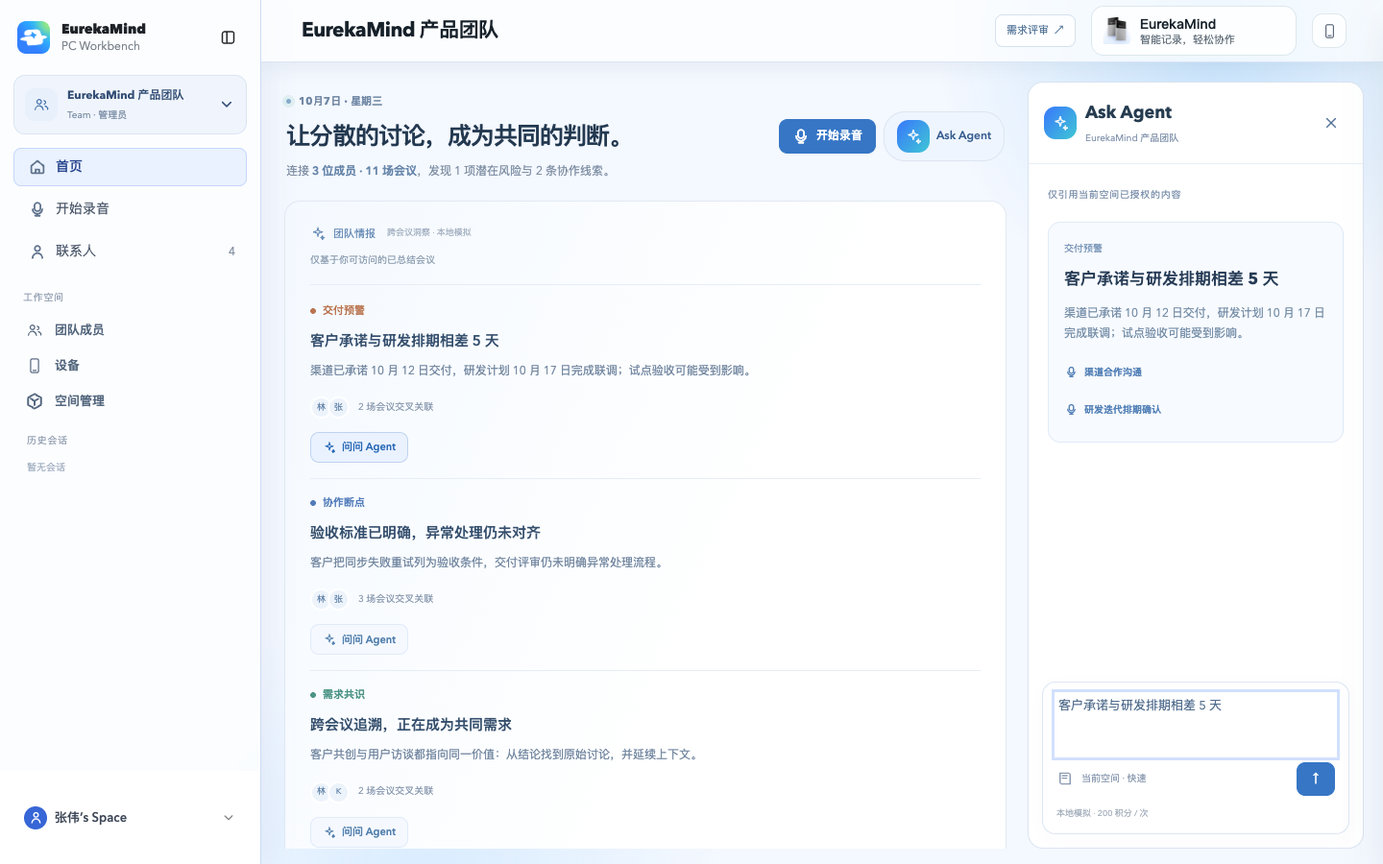
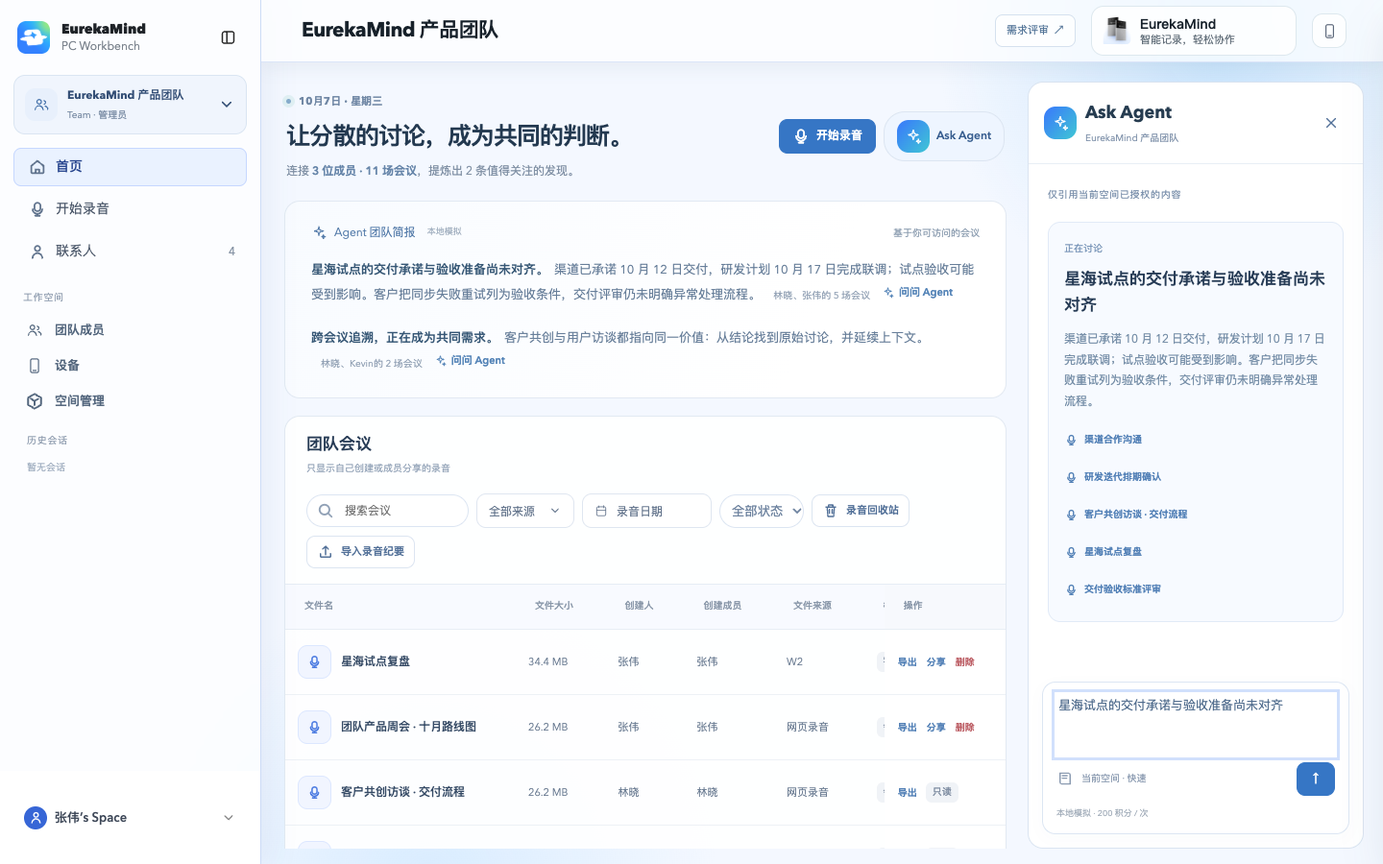
refine: present dynamic team findings as a flowing inline Agent brief

diff --git a/src/prototype/one-to-one-reference/assets/workspace-ui.js b/src/prototype/one-to-one-reference/assets/workspace-ui.js
@@ -84,11 +84,11 @@
   }
   function teamIntelligence(report){
     const items=report.items;
-    return `<section class="ws-meeting-intelligence ws-surface ws-team-intelligence" aria-label="团队情报"><header class="ws-intelligence-top"><div class="ws-intelligence-label">${icon('spark')} 团队情报 <span>跨会议洞察 · 本地模拟</span></div><span class="ws-insight-scope">仅基于你可访问的已总结会议</span></header>${items.length?`<div class="ws-insight-grid">${items.map(i=>`<article class="ws-insight-card ${i.kind}"><div class="ws-insight-category"><span>${i.label}</span></div><h3>${esc(i.title)}</h3><p>${esc(i.description)}</p><div class="ws-insight-people">${[...new Set(i.sources.map(e=>e.owner))].map(uid=>`<span class="ws-insight-avatar" title="${esc(userName(uid))}">${esc(userName(uid).slice(0,1))}</span>`).join('')}<span>${i.sources.length} 场会议交叉关联</span></div><footer>${btn('meeting-prompt',icon('spark')+'问问 Agent','ws-insight-ask',i.title,'aria-label="问问 Agent：'+esc(i.title)+'"')}</footer></article>`).join('')}</div>`:`<div class="ws-insight-empty">尚无可交叉验证的团队线索。成员分享相关会议后，可连接不同视角；暂无预警不代表不存在风险。</div>`}</section>`;
+    return `<section class="ws-meeting-intelligence ws-surface ws-team-intelligence ws-team-brief" aria-label="团队简报"><header class="ws-intelligence-top"><div class="ws-intelligence-label">${icon('spark')} Agent 团队简报 <span>本地模拟</span></div><span class="ws-insight-scope">基于你可访问的会议</span></header>${items.length?`<div class="ws-brief-narrative">${items.map(i=>`<article class="ws-brief-finding" data-insight-id="${esc(i.id)}"><p class="ws-brief-paragraph"><strong>${esc(i.title)}。</strong>${esc(i.description)} <span class="ws-brief-attribution"><span>${esc([...new Set(i.sources.map(e=>userName(e.owner)))].join('、'))}的 ${i.sources.length} 场会议</span>${btn('meeting-prompt',icon('spark')+'问问 Agent','ws-brief-ask',i.title,'aria-label="问问 Agent：'+esc(i.title)+'"')}</span></p></article>`).join('')}</div>`:`<div class="ws-insight-empty">暂时没有形成新的跨会议发现。相关讨论积累后，Agent 会在这里串联值得团队关注的信息。</div>`}</section>`;
   }
   function overview(){
     const report=M.insights(w(),actor),now=new Date(),dayLabel=now.toLocaleDateString('zh-CN',{month:'long',day:'numeric'})+' · '+now.toLocaleDateString('zh-CN',{weekday:'long'});
-    return `<header class="ws-page-head ws-team-home-head"><div><span class="today-workbench-eyebrow ws-home-date"><i></i><time>${esc(dayLabel)}</time></span><h1>让分散的讨论，成为共同的判断。</h1><p>连接 <b>${report.members} 位成员 · ${report.meetings} 场会议</b>${report.items.length?'，发现 '+report.items.filter(i=>i.kind==='risk').length+' 项潜在风险与 '+report.items.filter(i=>i.kind!=='risk').length+' 条协作线索。':'，等待更多跨成员的会议线索。'}</p></div><div class="ws-actions">${btn('record',icon('mic')+'开始录音','primary')+btn('agent',`<span class="ws-agent-mark">${icon('spark')}</span>Ask Agent`,'agent')}</div></header>`+
+    return `<header class="ws-page-head ws-team-home-head"><div><span class="today-workbench-eyebrow ws-home-date"><i></i><time>${esc(dayLabel)}</time></span><h1>让分散的讨论，成为共同的判断。</h1><p>连接 <b>${report.members} 位成员 · ${report.meetings} 场会议</b>${report.items.length?'，提炼出 '+report.items.length+' 条值得关注的发现。':'，等待更多跨成员的会议线索。'}</p></div><div class="ws-actions">${btn('record',icon('mic')+'开始录音','primary')+btn('agent',`<span class="ws-agent-mark">${icon('spark')}</span>Ask Agent`,'agent')}</div></header>`+
       (filter!=='trash'?teamIntelligence(report):'')+
       `<section class="ws-surface ws-recordings"><header class="ws-recording-head"><div><h2>${filter==='trash'?'录音回收站':'团队会议'}</h2><p>${filter==='trash'?'删除的录音可恢复，30 天后过期清理':'只显示自己创建或成员分享的录音'}</p></div><div class="ws-meeting-tools"><label class="ws-search">${icon('search')}<input id="ws-file-search" type="search" placeholder="搜索会议" aria-label="搜索团队会议" value="${esc(query)}"></label><div class="ws-filter-source"><select id="ws-meeting-source" aria-label="会议来源">${['all','网页录音','合并录音','M1','W1','W2','W-PEN','手动导入',...new Set(w().files.map(f=>f.source))].filter((x,i,a)=>a.indexOf(x)===i).map(v=>`<option value="${esc(v)}" ${sourceFilter===v?'selected':''}>${v==='all'?'全部来源':esc(v)}</option>`).join('')}</select></div><div class="ws-filter-date"><input id="ws-meeting-date" type="date" value="${dateFilter}" aria-label="录音日期"></div><select id="ws-meeting-status" aria-label="会议状态">${['all','已总结','处理中','待处理'].map(v=>`<option ${statusFilter===v?'selected':''} value="${v}">${v==='all'?'全部状态':v}</option>`).join('')}</select>${btn('recycle',filter==='trash'?'返回会议':icon('trash')+'录音回收站')}${filter!=='trash'?btn('import',icon('upload')+'导入录音纪要'):''}</div></header>${meetingTable()}</section>`;
   }
@@ -124,7 +124,7 @@
   function settings(){M.govern(w(),actor);return heading('空间设置','名称、成员权限与隐私设置仅作用于当前工作空间。')+managementTabs()+`<form class="ws-surface ws-settings-form" data-ws-form="settings">${field('工作空间名称','name',w().name,'text','required maxlength="40"')}${field('公司所在地区','country',w().country,'text','disabled')}<p class="ws-muted">地区在创建时确定，后续保持不变。</p><div class="ws-info">${icon('users')} 文件默认私有，仅允许在当前工作空间内邀请成员访问。</div><p class="ws-form-error" role="alert"></p><button class="ws-btn primary" type="submit">保存设置</button></form><section class="ws-surface ws-settings-form"><h3>退出工作空间</h3><p>退出后将无法访问此空间。若你是唯一管理员，需要先指定另一位管理员。</p>${btn('leave','退出当前空间','danger')}</section>`;}
   function audit(){M.govern(w(),actor);return heading('活动记录','只记录空间管理操作，不向管理员暴露成员私有文件内容。')+managementTabs()+`<section class="ws-surface"><div class="ws-list">${w().audit.filter(l=>!l.action.match(/文件|私有/)).map(l=>`<div class="ws-list-row"><div><strong>${esc(l.action)}</strong><small>${esc(l.actor)}</small></div><time>${date(l.time)}</time></div>`).join('')||empty('暂无管理活动','创建、邀请、席位与设备变更会显示在这里。')}</div></section>`;}
   function contacts(){return heading('团队联系人','当前工作空间的合作关系与跟进记录。',btn('contact-add','添加联系人','primary'))+`<div class="ws-contact-grid">${(w().contacts||[]).map(c=>`<button class="ws-contact-card" data-ws-action="contact" data-value="${esc(c.id)}"><span class="ws-mini-avatar">${esc(c.name[0])}</span><h3>${esc(c.name)}</h3><small>${esc(c.company)} · ${esc(c.role)}</small><p>${esc(c.summary)}</p><span class="ws-link">查看与跟进 ↗</span></button>`).join('')||empty('暂时没有联系人','添加合作伙伴，建立当前团队独立的关系记录。')}</div>`;}
-  function agent(){const insight=activeInsightId?M.insights(w(),actor).items.find(i=>i.id===activeInsightId):null;return `<aside class="ws-agent" aria-label="Ask Agent"><header><div><span class="ws-agent-mark">${icon('spark')}</span><div><h2>Ask Agent</h2><p>${esc(w().name)}</p></div></div>${btn('agent-close',icon('x'),'ws-icon-button','','aria-label="收起 Agent"')}</header><div class="ws-agent-scroll"><span class="ws-eyebrow">仅引用当前空间已授权的内容</span>${insight?`<div class="ws-agent-insight-context"><span>${esc(insight.label)}</span><h3>${esc(insight.title)}</h3><p>${esc(insight.description)}</p><div class="ws-agent-insight-sources">${insight.sources.map(e=>btn('file',icon('mic')+esc(e.title),'link',e.fileId)).join('')}</div></div>`:`<h3>${selected?'继续这场会议的工作':'让团队讨论有下一步'}</h3><p>整理关键结论、拆解行动项，或准备下一次沟通。</p><div class="ws-agent-prompts">${['整理待推进的行动项','为下次会议准备简报'].map(t=>btn('prompt',t,'',t)).join('')}</div>`}${w().threads.filter(t=>(!insight||t.prompt.includes(insight.title))&&(!activeHistoryId||t.id===activeHistoryId)&&t.user===actor&&!t.contactId&&(!selected||(t.files||[]).includes(selected))&&(t.files||[]).every(id=>M.visible(w(),actor).some(f=>f.id===id))).slice(0,4).reverse().map(t=>`<div class="ws-chat-user">${esc(t.prompt)}</div><div class="ws-chat-answer">${esc(t.answer)}</div>`).join('')}${answer?`<div class="ws-chat-answer" role="status">${esc(answer)}</div>`:''}</div><form class="ws-composer" data-ws-form="ask"><textarea name="question" aria-label="向团队 Agent 提问" placeholder="输入问题，按 Enter 发送…">${esc(draft)}</textarea><div class="ws-composer-tools"><span>${icon('book')} 当前空间 · 快速</span><button class="ws-btn primary" type="submit" aria-label="发送问题">↑</button></div><small>本地模拟 · 200 积分 / 次</small><p class="ws-form-error" role="alert"></p></form></aside>`;}
+  function agent(){const insight=activeInsightId?M.insights(w(),actor).items.find(i=>i.id===activeInsightId):null;return `<aside class="ws-agent" aria-label="Ask Agent"><header><div><span class="ws-agent-mark">${icon('spark')}</span><div><h2>Ask Agent</h2><p>${esc(w().name)}</p></div></div>${btn('agent-close',icon('x'),'ws-icon-button','','aria-label="收起 Agent"')}</header><div class="ws-agent-scroll"><span class="ws-eyebrow">仅引用当前空间已授权的内容</span>${insight?`<div class="ws-agent-insight-context"><span>正在讨论</span><h3>${esc(insight.title)}</h3><p>${esc(insight.description)}</p><div class="ws-agent-insight-sources">${insight.sources.map(e=>btn('file',icon('mic')+esc(e.title),'link',e.fileId)).join('')}</div></div>`:`<h3>${selected?'继续这场会议的工作':'让团队讨论有下一步'}</h3><p>整理关键结论、拆解行动项，或准备下一次沟通。</p><div class="ws-agent-prompts">${['整理待推进的行动项','为下次会议准备简报'].map(t=>btn('prompt',t,'',t)).join('')}</div>`}${w().threads.filter(t=>(!insight||t.prompt.includes(insight.title))&&(!activeHistoryId||t.id===activeHistoryId)&&t.user===actor&&!t.contactId&&(!selected||(t.files||[]).includes(selected))&&(t.files||[]).every(id=>M.visible(w(),actor).some(f=>f.id===id))).slice(0,4).reverse().map(t=>`<div class="ws-chat-user">${esc(t.prompt)}</div><div class="ws-chat-answer">${esc(t.answer)}</div>`).join('')}${answer?`<div class="ws-chat-answer" role="status">${esc(answer)}</div>`:''}</div><form class="ws-composer" data-ws-form="ask"><textarea name="question" aria-label="向团队 Agent 提问" placeholder="输入问题，按 Enter 发送…">${esc(draft)}</textarea><div class="ws-composer-tools"><span>${icon('book')} 当前空间 · 快速</span><button class="ws-btn primary" type="submit" aria-label="发送问题">↑</button></div><small>本地模拟 · 200 积分 / 次</small><p class="ws-form-error" role="alert"></p></form></aside>`;}
   function render(){
     if(w().type==='personal')refreshPersonal();
     let body;try{body=({overview,files,detail,members,devices,billing,credits,settings,audit,contacts}[page]||overview)();}catch(e){body=empty('此页面暂不可访问',esc(e.message),btn('page','返回团队首页','primary','overview'));}

diff --git a/tests/e2e/team-recording-parity.spec.ts b/tests/e2e/team-recording-parity.spec.ts
@@ -9,7 +9,7 @@ test('team recording home has full columns, custom filters and no personal flash
   await page.clock.setFixedTime(new Date('2026-10-07T12:00:00Z'));
   await expect(page.locator('#ws-team-nav')).not.toContainText('团队文件');
   await expect(page.locator('#ws-view')).not.toContainText(/今日日程|待办清单|全部闪念|今日记账|帮我安排/);
-  await expect(page.locator('.ws-meeting-intelligence')).toContainText('团队情报');
+  await expect(page.locator('.ws-meeting-intelligence')).toContainText('Agent 团队简报');
   const headings=await page.locator('.ws-recording-table th').allTextContents();
   for(const label of ['文件名','文件大小','创建人','文件来源','标签','录音时长','文件状态','录音时间','更新时间','创建成员','操作'])expect(headings.join(',')).toContain(label);
   await expect(page.locator('.ws-recording-table tbody tr')).toHaveCount(10);
@@ -22,7 +22,7 @@ test('team recording home has full columns, custom filters and no personal flash
   await page.getByRole('button',{name:'清除录音日期',exact:true}).filter({visible:true}).click();
   await page.getByRole('searchbox',{name:'搜索团队会议'}).fill('不存在的会议');await expect(page.locator('#ws-view')).toContainText('没有符合条件');
   await page.getByRole('searchbox',{name:'搜索团队会议'}).fill('');
-  await act(page,'meeting-prompt').click();await expect(page.locator('.ws-composer textarea')).toHaveValue('客户承诺与研发排期相差 5 天');
+  await act(page,'meeting-prompt').click();await expect(page.locator('.ws-composer textarea')).toHaveValue('星海试点的交付承诺与验收准备尚未对齐');
 });
 test('team recordings reuse six tabs, inline editing, player, sharing, export and recycle',async({page})=>{
   const errors:string[]=[];page.on('pageerror',e=>errors.push(e.message));
@@ -81,28 +81,30 @@ test('team intelligence has one dated heading and one contextual Agent action pe
   await expect(page.locator('.ws-home-date')).toHaveText('10月7日 · 星期三');
   await expect(page.locator('.ws-team-home-head h1')).toHaveText('让分散的讨论，成为共同的判断。');
   await expect(page.locator('.ws-team-intelligence h2')).toHaveCount(0);
-  await expect(page.locator('.ws-insight-card')).toHaveCount(3);
+  await expect(page.locator('.ws-brief-finding')).toHaveCount(2);
   await expect(page.locator('.ws-team-home-head')).toContainText('3 位成员 · 11 场会议');
-  await expect(page.locator('.ws-team-intelligence')).not.toContainText(/待核实|待评审|查看依据|分析影响|评估需求/);
-  await expect(page.locator('.ws-insight-card button')).toHaveCount(3);
+  await expect(page.locator('.ws-team-intelligence')).not.toContainText(/交付预警|协作断点|需求共识|待核实|待评审|查看依据|分析影响|评估需求/);
+  await expect(page.locator('.ws-brief-finding button')).toHaveCount(2);
+  await expect(page.locator('.ws-brief-paragraph > .ws-brief-attribution')).toHaveCount(2);
+  await expect(page.locator('.ws-brief-attribution').first()).toHaveCSS('display','inline');
   if(process.env.PRD_CAPTURE){await page.setViewportSize({width:1440,height:900});await expect(page.locator('#ws-toast')).toBeHidden();await page.screenshot({path:'src/prototype/prd/images/team.png'});}
-  await page.locator('.ws-insight-card.risk button').click();
+  await page.locator('.ws-brief-finding[data-insight-id=delivery-risk] button').click();
   await expect(page.locator('#ws-dialog')).not.toBeVisible();await expect(page.locator('.ws-layout')).toHaveClass(/with-agent/);
-  await expect(page.locator('.ws-composer textarea')).toHaveValue('客户承诺与研发排期相差 5 天');
+  await expect(page.locator('.ws-composer textarea')).toHaveValue('星海试点的交付承诺与验收准备尚未对齐');
   await expect(page.locator('.ws-agent-insight-context')).toContainText('渠道合作沟通');
   await expect(page.locator('.ws-agent-insight-context')).toContainText('研发迭代排期确认');
   if(process.env.PRD_CAPTURE)await page.screenshot({path:'src/prototype/prd/images/team-insight-agent.png'});
   await page.locator('.ws-composer button[type=submit]').click();await expect(page.locator('#ws-view .ws-chat-answer').last()).toContainText('会议依据');await expect(page.locator('#ws-view .ws-chat-answer').last()).toContainText('10 月 17 日');
   await page.locator('.ws-composer textarea').fill('具体需要哪些人对齐？');await page.locator('.ws-composer button[type=submit]').click();await expect(page.locator('#ws-view .ws-chat-answer').last()).toContainText('渠道合作沟通');
   await act(page,'agent-close').click();await expect(page.locator('.ws-layout')).not.toHaveClass(/with-agent/);
-  await page.locator('.ws-insight-card.opportunity button').click();await expect(page.locator('.ws-agent-insight-context')).toContainText('跨会议追溯');
+  await page.locator('.ws-brief-finding[data-insight-id=customer-pattern] button').click();await expect(page.locator('.ws-agent-insight-context')).toContainText('跨会议追溯');
   await page.locator('.ws-agent-insight-sources [data-value=team-demo-research]').click();await expect(page.locator('#meeting-detail-root')).toContainText('语音记录用户访谈');
   await page.locator('#home-entry').click();
   for(const [width,height] of [[1920,1080],[1366,768],[1280,650]]){
     await page.setViewportSize({width,height});expect(await page.locator('.main').evaluate(el=>el.scrollWidth-el.clientWidth)).toBeLessThan(3);
-    await page.locator('.ws-insight-card.gap button').click();await expect(page.locator('.ws-composer textarea')).toBeInViewport({ratio:1});await act(page,'agent-close').click();
+    await page.locator('.ws-brief-finding button').first().click();await expect(page.locator('.ws-composer textarea')).toBeInViewport({ratio:1});await act(page,'agent-close').click();
   }
   await page.evaluate(()=>{const key='eureka:workspaces:v2',s=JSON.parse(localStorage.getItem(key)!);s.spaces.find((w:{id:string})=>w.id==='team-eureka').files.find((f:{id:string})=>f.id==='team-demo-sales').shared=[];localStorage.setItem(key,JSON.stringify(s));});
-  await page.reload();await expect(page.locator('.ws-insight-card.risk')).toHaveCount(0);
-  await switchTo(page,'team-design');await expect(page.locator('.ws-insight-empty')).toContainText('尚无可交叉验证');await expect(page.locator('#ws-view')).not.toContainText('相差 5 天');
+  await page.reload();await expect(page.locator('.ws-brief-finding[data-insight-id=delivery-risk]')).toHaveCount(0);await expect(page.locator('.ws-brief-finding[data-insight-id=ownership-gap]')).toHaveCount(1);
+  await switchTo(page,'team-design');await expect(page.locator('.ws-insight-empty')).toContainText('暂时没有形成新的跨会议发现');await expect(page.locator('#ws-view')).not.toContainText('相差 5 天');
 });

diff --git a/src/prototype/one-to-one-reference/assets/workspace-model.js b/src/prototype/one-to-one-reference/assets/workspace-model.js
@@ -113,9 +113,9 @@
       return quote?[{fileId:f.id,title:f.title,owner:f.owner,created:f.created,quote}]:[];
     });
     const rules=[
-      {id:'delivery-risk',kind:'risk',label:'交付预警',title:'客户承诺与研发排期相差 5 天',description:'渠道已承诺 10 月 12 日交付，研发计划 10 月 17 日完成联调；试点验收可能受到影响。',impact:'涉及客户预期与试点验收，需要销售、研发共同核实。',next:'核实 10 月 12 日承诺的交付范围，确认是否依赖 10 月 17 日的联调结果，再统一对外口径。',patterns:[/星海.*10 月 12 日.*交付/,/星海.*10 月 17 日.*联调/]},
-      {id:'ownership-gap',kind:'gap',label:'协作断点',title:'验收标准已明确，异常处理仍未对齐',description:'客户把同步失败重试列为验收条件，交付评审仍未明确异常处理流程。',impact:'客户要求已进入团队视野，但交付闭环尚缺一环。',next:'对照客户验收条件与交付检查表，确认同步异常的处理流程、负责人和验收证据。',patterns:[/星海.*同步失败重试.*验收/,/尚待确认设备同步异常.*处理流程/]},
-      {id:'customer-pattern',kind:'opportunity',label:'需求共识',title:'跨会议追溯，正在成为共同需求',description:'客户共创与用户访谈都指向同一价值：从结论找到原始讨论，并延续上下文。',impact:'跨成员收集的反馈汇成产品方向，可作为路线图优先级的依据。',next:'把两场会议的原始需求对照整理，区分客户明确要求与产品推断，形成待评审的优先级建议。',patterns:[/客户共创.*会议纪要可追溯/,/用户访谈.*跨会议检索与上下文延续/]}
+      {id:'delivery-risk',topic:'星海试点',kind:'risk',label:'交付预警',title:'客户承诺与研发排期相差 5 天',description:'渠道已承诺 10 月 12 日交付，研发计划 10 月 17 日完成联调；试点验收可能受到影响。',impact:'涉及客户预期与试点验收，需要销售、研发共同核实。',next:'核实 10 月 12 日承诺的交付范围，确认是否依赖 10 月 17 日的联调结果，再统一对外口径。',patterns:[/星海.*10 月 12 日.*交付/,/星海.*10 月 17 日.*联调/]},
+      {id:'ownership-gap',topic:'星海试点',kind:'gap',label:'协作断点',title:'验收标准已明确，异常处理仍未对齐',description:'客户把同步失败重试列为验收条件，交付评审仍未明确异常处理流程。',impact:'客户要求已进入团队视野，但交付闭环尚缺一环。',next:'对照客户验收条件与交付检查表，确认同步异常的处理流程、负责人和验收证据。',patterns:[/星海.*同步失败重试.*验收/,/尚待确认设备同步异常.*处理流程/]},
+      {id:'customer-pattern',topic:'跨会议追溯',kind:'opportunity',label:'需求共识',title:'跨会议追溯，正在成为共同需求',description:'客户共创与用户访谈都指向同一价值：从结论找到原始讨论，并延续上下文。',impact:'跨成员收集的反馈汇成产品方向，可作为路线图优先级的依据。',next:'把两场会议的原始需求对照整理，区分客户明确要求与产品推断，形成待评审的优先级建议。',patterns:[/客户共创.*会议纪要可追溯/,/用户访谈.*跨会议检索与上下文延续/]}
     ];
     const items=rules.flatMap(r=>{
       const groups=r.patterns.map(evidence);if(groups.some(g=>!g.length))return [];
@@ -123,12 +123,15 @@
       if(sources.length<2||new Set(sources.map(e=>e.owner)).size<2)return [];
       return [{...r,patterns:undefined,sources}];
     });
-    return {items,meetings:files.length,members:new Set(files.map(f=>f.owner)).size};
+    // Related observations form one narrative topic, not one UI slot per category.
+    const topics=new Map();for(const item of items){const group=topics.get(item.topic)||[];group.push(item);topics.set(item.topic,group);}
+    const findings=[...topics.values()].map(group=>group.length===1?group[0]:({...group[0],title:'星海试点的交付承诺与验收准备尚未对齐',description:group.map(i=>i.description).join(''),impact:group.map(i=>i.impact).join(''),next:group.map(i=>i.next).join(''),sources:[...new Map(group.flatMap(i=>i.sources).map(e=>[e.fileId,e])).values()]}));
+    return {items:findings,meetings:files.length,members:new Set(files.map(f=>f.owner)).size};
   }
   function ask(w,prompt,fid,uid=SELF) {
     access(w,uid);writable(w);prompt=String(prompt).trim();if(!prompt)fail('请输入问题');
     const insight=!fid&&insights(w,uid).items.find(i=>prompt.includes(i.title));
-    if(!fid&&!insight&&/客户承诺与研发排期相差 5 天|验收标准已明确，异常处理仍未对齐|跨会议追溯，正在成为共同需求/.test(prompt))return {answer:'该团队线索的来源或内容已变化，当前依据不足，请返回首页查看最新线索。本次未扣积分。',cost:0};
+    if(!fid&&!insight&&/星海试点的交付承诺与验收准备尚未对齐|客户承诺与研发排期相差 5 天|验收标准已明确，异常处理仍未对齐|跨会议追溯，正在成为共同需求/.test(prompt))return {answer:'该团队线索的来源或内容已变化，当前依据不足，请返回首页查看最新线索。本次未扣积分。',cost:0};
     let files=insight?insight.sources.map(e=>getFile(w,e.fileId,uid)):fid?[getFile(w,fid,uid)]:visible(w,uid);
     if(!fid&&!insight&&/客户|反馈/.test(prompt))files=files.filter(f=>/客户|访谈|试点|验收/.test(f.title));
     if(!insight)files=files.slice().sort((a,b)=>String(b.created).localeCompare(String(a.created))).slice(0,3);

diff --git a/src/prototype/one-to-one-reference/assets/workspace-ui.css b/src/prototype/one-to-one-reference/assets/workspace-ui.css
@@ -47,3 +47,13 @@ html[data-sidebar-collapsed=true] .ws-space-copy,html[data-sidebar-collapsed=tru
 .ws-team-home-head .ws-home-date{display:inline-flex;margin-bottom:10px;font-size:11px;color:#7188a5;gap:8px}.ws-home-date i{display:block;width:5px;height:5px;border-radius:50%;background:#86accb}.ws-team-home-head h1{font-size:25px;font-weight:650;line-height:1.45}.ws-team-home-head p{font-size:12px}.ws-team-home-head p b{font-weight:550;color:#6685a9}.ws-team-home-head .ws-actions{align-self:center;flex-shrink:0}.ws-team-intelligence .ws-intelligence-top{margin-bottom:16px;align-items:center}.ws-team-intelligence .ws-insight-grid{padding-top:18px}.ws-insight-card footer{justify-content:flex-start;margin-top:14px}.ws-insight-card footer .ws-insight-ask{display:inline-flex;gap:6px;align-items:center;border:1px solid #e0eafa;background:#f5f9ff;color:#527fac;border-radius:9px;padding:7px 12px;font-size:11px;min-height:32px}.ws-insight-card footer .ws-insight-ask:hover{background:#eaf2ff;text-decoration:none;border-color:#bdd3ef}.ws-insight-ask .ws-icon{width:14px;height:14px}
 .ws-agent-insight-context{margin-top:20px;padding:16px;border:1px solid #e1eaf7;background:#f7faff;border-radius:13px}.ws-agent-insight-context>span{font-size:10px;color:#7592b6}.ws-agent-insight-context h3{font-size:17px;line-height:1.6;margin:8px 0}.ws-agent-insight-context p{font-size:12px;color:#7890a9;line-height:1.8}.ws-agent-insight-sources{display:grid;gap:5px;margin-top:12px}.ws-agent-insight-sources .ws-btn{font-size:10px;justify-content:flex-start;white-space:normal;text-align:left;padding:5px 0}.ws-agent-insight-sources .ws-icon{flex-shrink:0;width:13px;height:13px}
 @media(max-width:1100px){.ws-team-home-head h1{font-size:22px}.ws-team-home-head{flex-wrap:wrap}}
+
+/* A flowing Agent brief: findings grow with the evidence, never reserve category cards. */
+.ws-team-brief.ws-meeting-intelligence{padding:22px 27px;background:linear-gradient(115deg,#f8fbff,#fff 72%)}
+.ws-team-brief .ws-intelligence-top{margin:0 0 17px;padding:0;display:flex;justify-content:space-between;align-items:center}
+.ws-team-brief .ws-intelligence-label{font-size:12px;color:#557caa}.ws-brief-narrative{display:block;max-width:1120px}
+.ws-brief-finding{margin:0;padding:0 0 19px}.ws-brief-finding:last-child{padding-bottom:0}.ws-brief-paragraph{margin:0;font-size:14px;line-height:2;color:#687f9a;text-wrap:pretty}.ws-brief-paragraph strong{color:#365775;font-weight:600;margin-right:6px}.ws-brief-attribution{display:flex;align-items:center;gap:18px;flex-wrap:wrap;margin-top:7px;color:#94a3b6;font-size:10px}.ws-brief-attribution .ws-brief-ask{display:inline-flex;align-items:center;gap:5px;border:0;padding:3px 0;min-height:26px;border-radius:3px;background:transparent;font-size:11px;color:#5685b8}.ws-brief-ask .ws-icon{width:13px;height:13px}.ws-brief-attribution .ws-brief-ask:hover{background:transparent;color:#2866ac;text-decoration:underline}
+.ws-layout.with-agent .ws-team-brief .ws-intelligence-top{display:flex;flex-wrap:wrap;gap:8px}.ws-layout.with-agent .ws-team-brief .ws-insight-scope{margin-top:0}.ws-layout.with-agent .ws-brief-paragraph{font-size:13px;line-height:1.95}
+@media(max-width:800px){.ws-team-brief.ws-meeting-intelligence{padding:20px}.ws-team-brief .ws-intelligence-top{flex-wrap:wrap;gap:8px}.ws-brief-paragraph{font-size:13px}}
+
+.ws-brief-paragraph .ws-brief-attribution{display:inline;margin:0 0 0 10px;line-height:inherit}.ws-brief-attribution>span{white-space:nowrap}.ws-brief-paragraph .ws-brief-ask{display:inline-flex;vertical-align:baseline;margin-left:12px;padding:0;min-height:0;line-height:inherit;white-space:nowrap}.ws-brief-paragraph .ws-brief-ask .ws-icon{align-self:center}

diff --git a/README.md b/README.md
@@ -48,7 +48,7 @@ npm run test:e2e    # Playwright 浏览器测试（需先安装依赖）
 - 工作空间邀请：接受「增长研究小组」邀请后，新增一个独立团队。
 - 创建团队：方案 → 空间信息/席位/周期 → 模拟支付（支持失败重试）→ 开通/邀请成员。
 
-团队首页围绕会议展开：跨成员团队情报（交付预警、协作断点、需求共识）、可核对的会议原文与完整会议列表。不展示个人日程、待办、灵感、记账和全部闪念，也不提供独立「团队文件」或通用文件管理入口。团队会议保留个人列表字段并增加创建成员，复用六页签详情、播放器、原位编辑、导出、成员分享、回收站和页面内 Agent。联系人复用完整关系档案、备注、跟进与 Agent。默认产品团队有 12 条录音（张伟视角可见 11 条）及 4 位联系人；旧数据增量补齐，新建团队保持空态。
+团队首页围绕会议展开：连续的 Agent 团队简报（内容与数量由实际发现决定，同一议题合并叙述）、可核对的会议原文与完整会议列表。不展示个人日程、待办、灵感、记账和全部闪念，也不提供独立「团队文件」或通用文件管理入口。团队会议保留个人列表字段并增加创建成员，复用六页签详情、播放器、原位编辑、导出、成员分享、回收站和页面内 Agent。联系人复用完整关系档案、备注、跟进与 Agent。默认产品团队有 12 条录音（张伟视角可见 11 条）及 4 位联系人；旧数据增量补齐，新建团队保持空态。
 
 Team 只使用一种 Unlimited 席位；邀请占席，移除成员释放席位但不自动减账单；加席立即生效，减席与周期切换安排到下一账期，可通过「模拟下一账期」验证。管理员可以管理成员与设备元数据，但不会获得成员私有录音的访问权。设备支持手动录入 SN、型号并绑定成员：管理员可选团队有效成员，普通成员仅本人；重复 SN 拒绝，长数字与前导零按文本保留。原设备申请 / 发放入口已替换，历史设备保留。已有本人设备可模拟 App 重新绑定，切换空间不会改变同步目标。跨空间资料通过导出/导入 JSON 创建独立私有副本，兼容原会议详情导出的演示 JSON。
 
